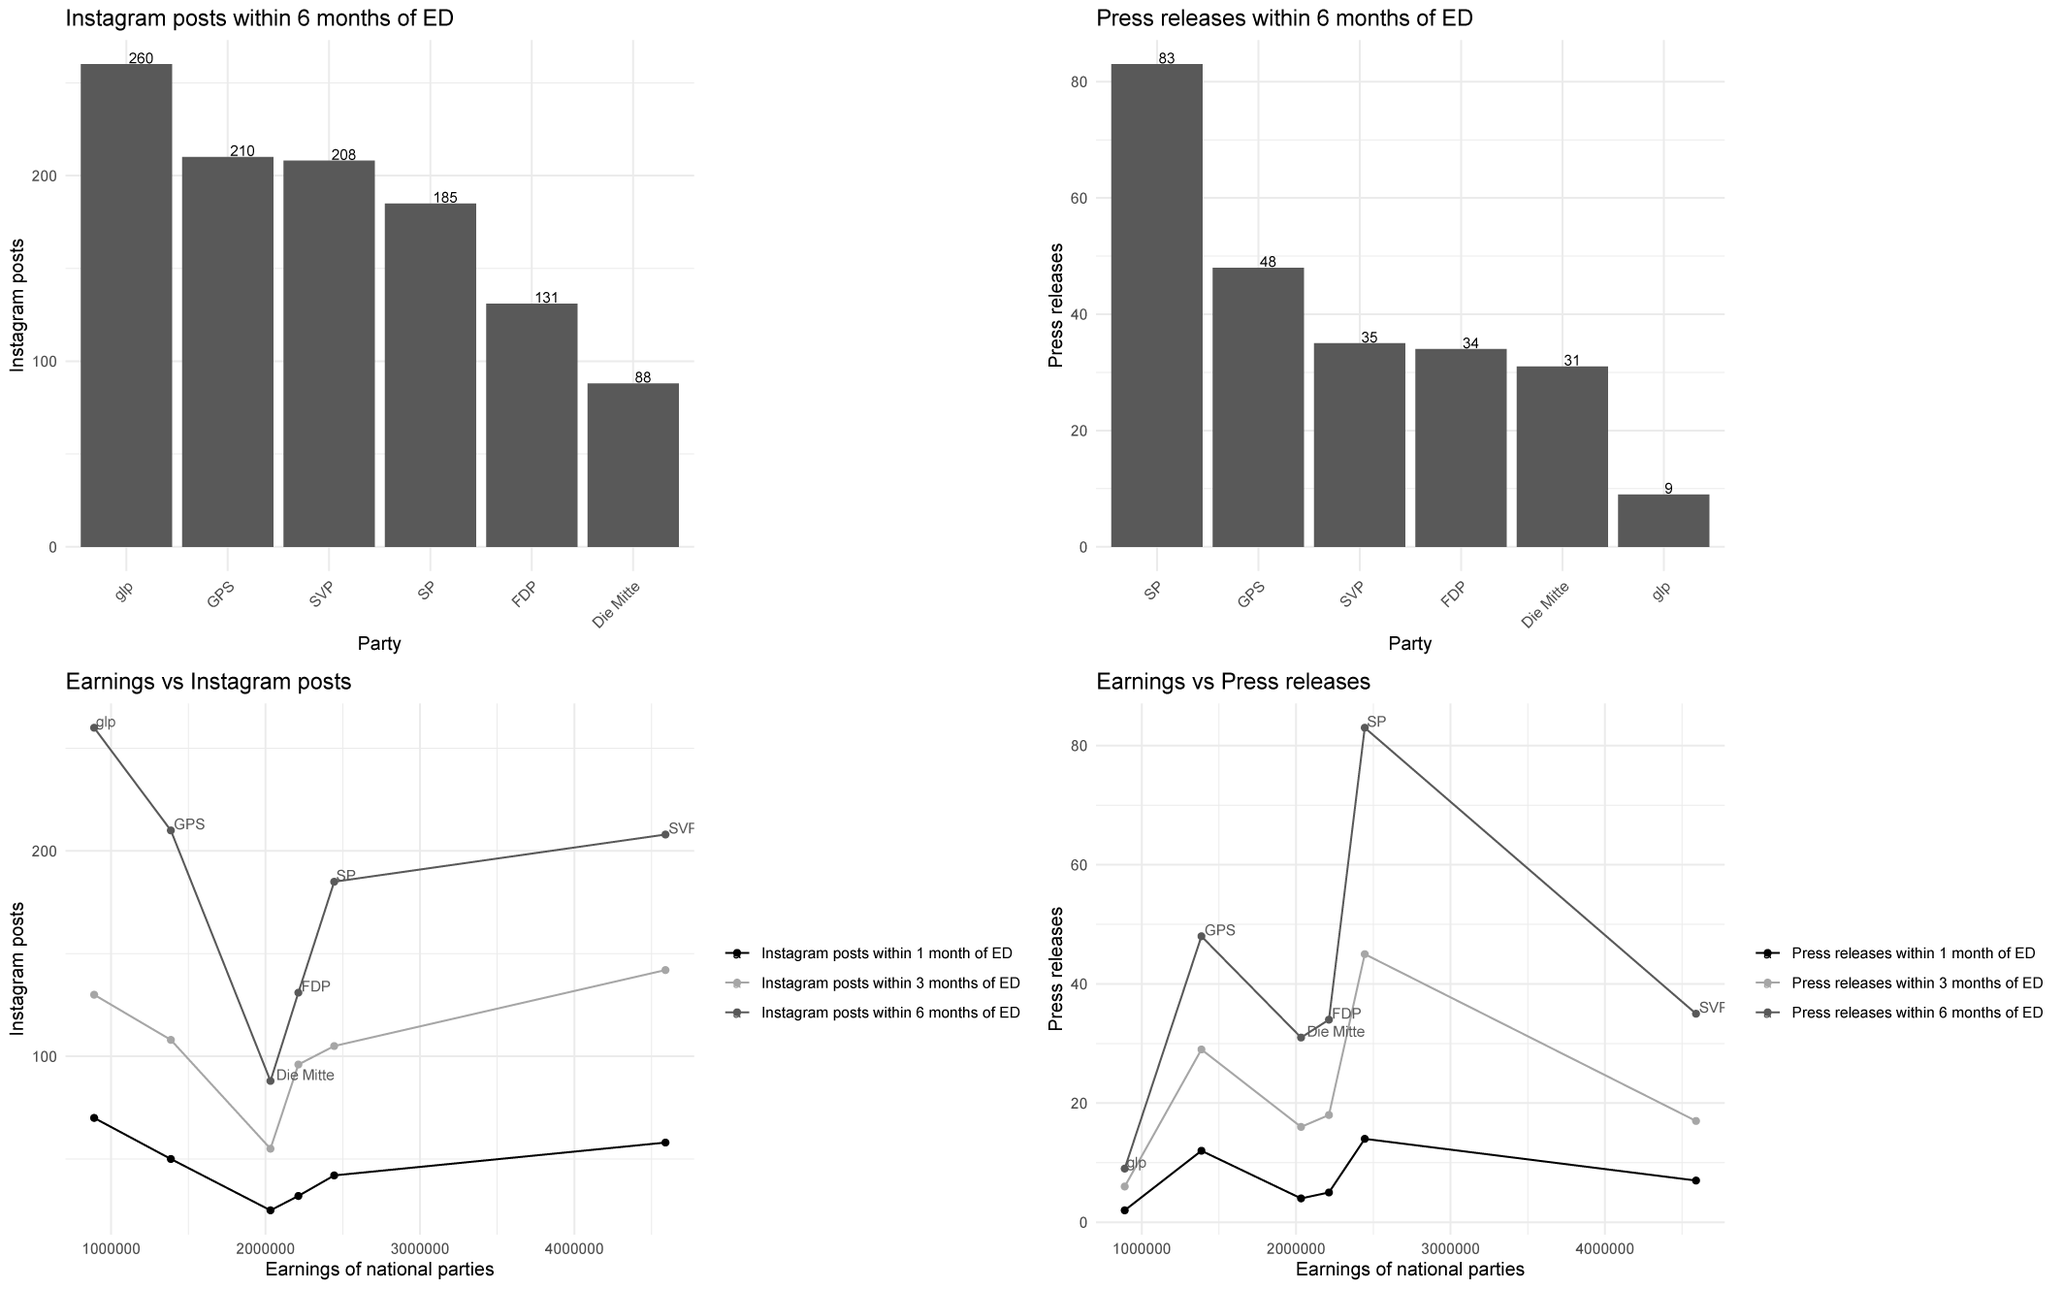
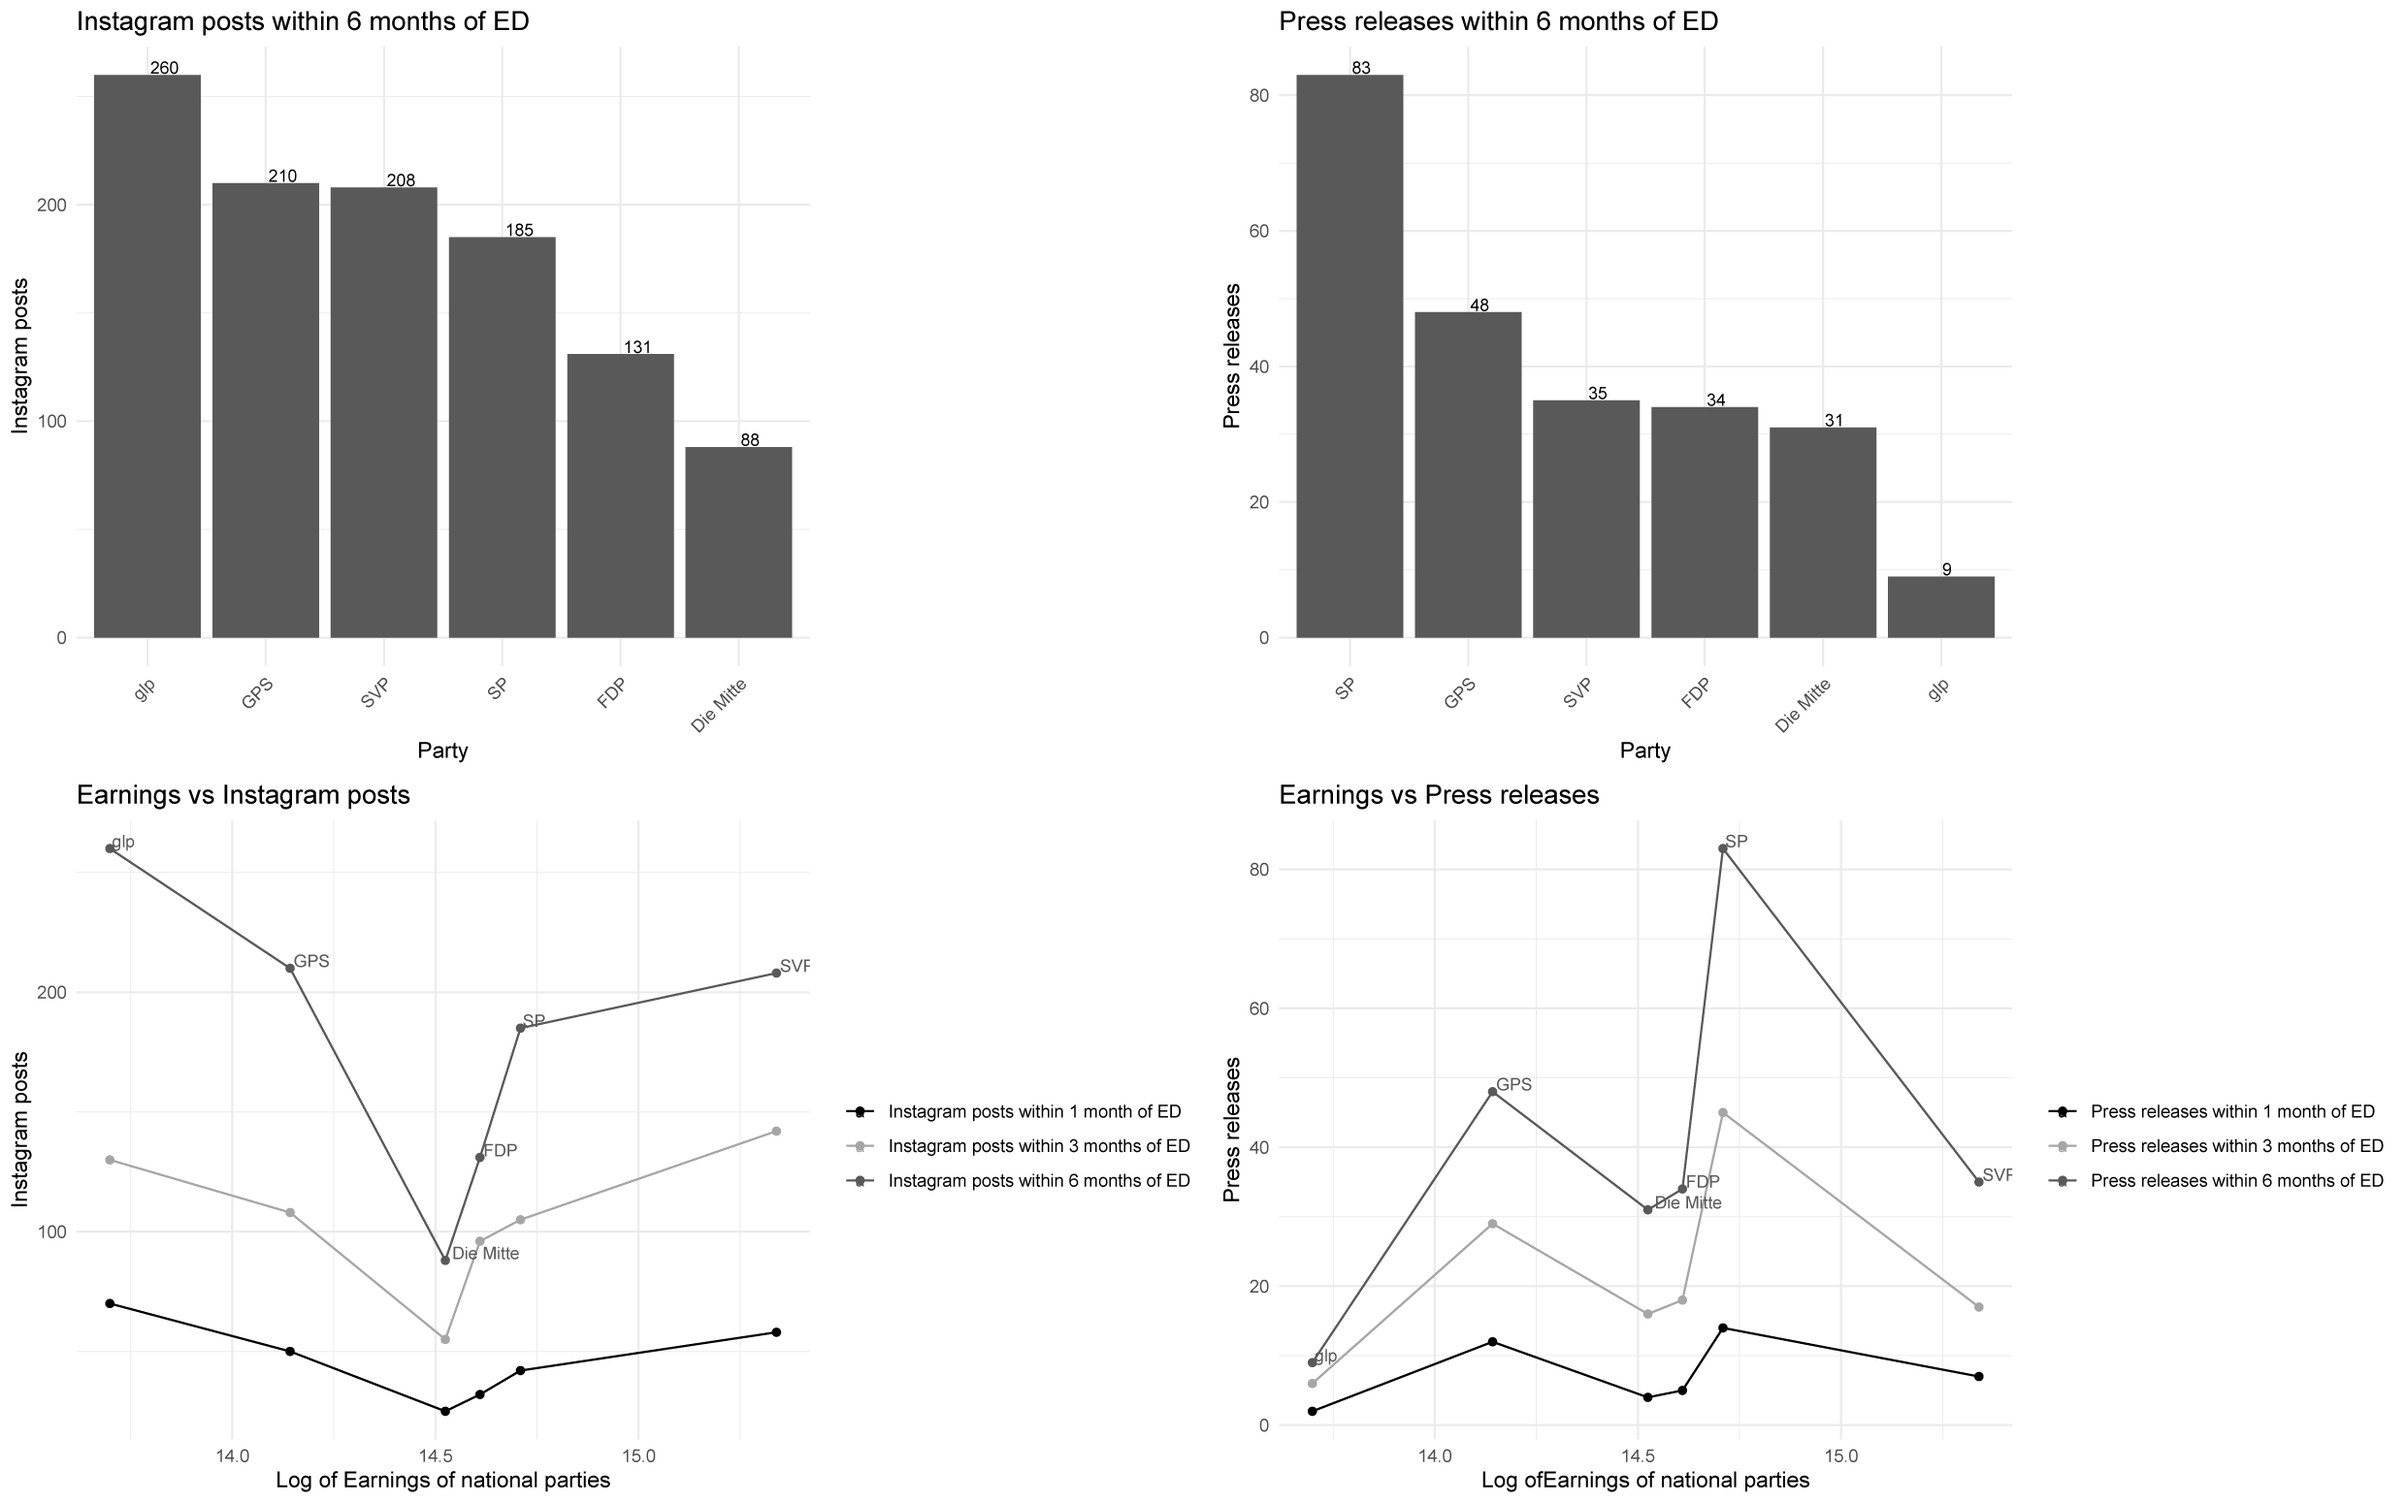
Add logs in plot, models and regression table

diff --git a/output/tables/table_5.html b/output/tables/table_5.html
@@ -2,40 +2,39 @@
 <table style="text-align:center"><tr><td colspan="8" style="border-bottom: 1px solid black"></td></tr><tr><td style="text-align:left"></td><td colspan="7"><em>Dependent variable:</em></td></tr>
 <tr><td></td><td colspan="7" style="border-bottom: 1px solid black"></td></tr>
 <tr><td style="text-align:left"></td><td colspan="7">MISI within election month</td></tr>
-<tr><td style="text-align:left"></td><td>PISI</td><td>+ Earnings</td><td>+ Controls</td><td>+ Interaction</td><td>+ MISI 3m</td><td>alt: MISI 6m</td><td>Full Model</td></tr>
+<tr><td style="text-align:left"></td><td>PISI</td><td>+ log(Earnings)</td><td>+ Controls</td><td>+ Interaction</td><td>+ MISI 3m</td><td>alt: MISI 6m</td><td>Full Model</td></tr>
 <tr><td style="text-align:left"></td><td>(1)</td><td>(2)</td><td>(3)</td><td>(4)</td><td>(5)</td><td>(6)</td><td>(7)</td></tr>
-<tr><td colspan="8" style="border-bottom: 1px solid black"></td></tr><tr><td style="text-align:left">PISI</td><td>0.095<sup>・</sup></td><td>0.095<sup>・</sup></td><td>0.095<sup>・</sup></td><td>0.505<sup>**</sup></td><td>-0.010</td><td>0.126<sup>・</sup></td><td>-0.027</td></tr>
-<tr><td style="text-align:left"></td><td>(0.086)</td><td>(0.087)</td><td>(0.088)</td><td>(0.228)</td><td>(0.070)</td><td>(0.088)</td><td>(0.072)</td></tr>
+<tr><td colspan="8" style="border-bottom: 1px solid black"></td></tr><tr><td style="text-align:left">PISI</td><td>0.095<sup>・</sup></td><td>0.095<sup>・</sup></td><td>0.095<sup>・</sup></td><td>4.986<sup>*</sup></td><td>-0.709<sup>・</sup></td><td>0.782<sup>・</sup></td><td>-0.907<sup>・</sup></td></tr>
+<tr><td style="text-align:left"></td><td>(0.086)</td><td>(0.087)</td><td>(0.088)</td><td>(2.808)</td><td>(0.860)</td><td>(1.082)</td><td>(0.875)</td></tr>
 <tr><td style="text-align:left"></td><td></td><td></td><td></td><td></td><td></td><td></td><td></td></tr>
-<tr><td style="text-align:left">Party Earnings</td><td></td><td>0.000</td><td>-0.000</td><td>0.000<sup>・</sup></td><td>-0.000</td><td>0.000<sup>・</sup></td><td>-0.000</td></tr>
-<tr><td style="text-align:left"></td><td></td><td>(0.000)</td><td>(0.000)</td><td>(0.000)</td><td>(0.000)</td><td>(0.000)</td><td>(0.000)</td></tr>
+<tr><td style="text-align:left">Log of Party Earnings</td><td></td><td>-0.000</td><td>-0.000</td><td>0.015<sup>・</sup></td><td>-0.002<sup>・</sup></td><td>0.002</td><td>-0.003<sup>・</sup></td></tr>
+<tr><td style="text-align:left"></td><td></td><td>(0.008)</td><td>(0.013)</td><td>(0.015)</td><td>(0.005)</td><td>(0.006)</td><td>(0.005)</td></tr>
 <tr><td style="text-align:left"></td><td></td><td></td><td></td><td></td><td></td><td></td><td></td></tr>
 <tr><td style="text-align:left">Number of Seats</td><td></td><td></td><td>0.000</td><td>0.000</td><td>0.000</td><td>0.000</td><td>0.000</td></tr>
 <tr><td style="text-align:left"></td><td></td><td></td><td>(0.001)</td><td>(0.001)</td><td>(0.0002)</td><td>(0.0003)</td><td>(0.0002)</td></tr>
 <tr><td style="text-align:left"></td><td></td><td></td><td></td><td></td><td></td><td></td><td></td></tr>
 <tr><td style="text-align:left">Left-Right Scale</td><td></td><td></td><td>0.000</td><td>0.000</td><td>0.000</td><td>0.000</td><td>0.000</td></tr>
-<tr><td style="text-align:left"></td><td></td><td></td><td>(0.004)</td><td>(0.004)</td><td>(0.001)</td><td>(0.002)</td><td>(0.001)</td></tr>
+<tr><td style="text-align:left"></td><td></td><td></td><td>(0.004)</td><td>(0.003)</td><td>(0.001)</td><td>(0.001)</td><td>(0.001)</td></tr>
 <tr><td style="text-align:left"></td><td></td><td></td><td></td><td></td><td></td><td></td><td></td></tr>
 <tr><td style="text-align:left">GAL-TAN Scale</td><td></td><td></td><td>-0.000</td><td>-0.000</td><td>0.000</td><td>0.000</td><td>0.000</td></tr>
 <tr><td style="text-align:left"></td><td></td><td></td><td>(0.004)</td><td>(0.004)</td><td>(0.001)</td><td>(0.001)</td><td>(0.001)</td></tr>
 <tr><td style="text-align:left"></td><td></td><td></td><td></td><td></td><td></td><td></td><td></td></tr>
-<tr><td style="text-align:left">MISI 3 months before ED</td><td></td><td></td><td></td><td></td><td>1.008<sup>***</sup></td><td></td><td>1.157<sup>***</sup></td></tr>
+<tr><td style="text-align:left">MISI 3 months before ED</td><td></td><td></td><td></td><td></td><td>1.010<sup>***</sup></td><td></td><td>1.169<sup>***</sup></td></tr>
 <tr><td style="text-align:left"></td><td></td><td></td><td></td><td></td><td>(0.029)</td><td></td><td>(0.137)</td></tr>
 <tr><td style="text-align:left"></td><td></td><td></td><td></td><td></td><td></td><td></td><td></td></tr>
-<tr><td style="text-align:left">MISI 6 bonths before ED</td><td></td><td></td><td></td><td></td><td></td><td>0.966<sup>***</sup></td><td>-0.150<sup>・</sup></td></tr>
+<tr><td style="text-align:left">MISI 6 bonths before ED</td><td></td><td></td><td></td><td></td><td></td><td>0.967<sup>***</sup></td><td>-0.161<sup>・</sup></td></tr>
 <tr><td style="text-align:left"></td><td></td><td></td><td></td><td></td><td></td><td>(0.037)</td><td>(0.135)</td></tr>
 <tr><td style="text-align:left"></td><td></td><td></td><td></td><td></td><td></td><td></td><td></td></tr>
-<tr><td style="text-align:left">PISI * Party Earnings</td><td></td><td></td><td></td><td>-0.00000<sup>*</sup></td><td>0.000<sup>・</sup></td><td>-0.000<sup>・</sup></td><td>0.000<sup>・</sup></td></tr>
-<tr><td style="text-align:left"></td><td></td><td></td><td></td><td>(0.00000)</td><td>(0.000)</td><td>(0.000)</td><td>(0.000)</td></tr>
+<tr><td style="text-align:left">PISI * Log of Party Earnings</td><td></td><td></td><td></td><td>-0.307<sup>*</sup></td><td>0.046<sup>・</sup></td><td>-0.046<sup>・</sup></td><td>0.058<sup>・</sup></td></tr>
+<tr><td style="text-align:left"></td><td></td><td></td><td></td><td>(0.176)</td><td>(0.054)</td><td>(0.068)</td><td>(0.055)</td></tr>
 <tr><td style="text-align:left"></td><td></td><td></td><td></td><td></td><td></td><td></td><td></td></tr>
-<tr><td style="text-align:left">Constant</td><td>0.043<sup>***</sup></td><td>0.043<sup>***</sup></td><td>0.043<sup>**</sup></td><td>0.024<sup>・</sup></td><td>0.0001</td><td>-0.004<sup>・</sup></td><td>0.001</td></tr>
-<tr><td style="text-align:left"></td><td>(0.006)</td><td>(0.010)</td><td>(0.021)</td><td>(0.023)</td><td>(0.007)</td><td>(0.009)</td><td>(0.007)</td></tr>
+<tr><td style="text-align:left">Constant</td><td>0.043<sup>***</sup></td><td>0.043</td><td>0.043</td><td>-0.190<sup>・</sup></td><td>0.033<sup>・</sup></td><td>-0.036<sup>・</sup></td><td>0.043<sup>・</sup></td></tr>
+<tr><td style="text-align:left"></td><td>(0.006)</td><td>(0.120)</td><td>(0.189)</td><td>(0.230)</td><td>(0.069)</td><td>(0.088)</td><td>(0.070)</td></tr>
 <tr><td style="text-align:left"></td><td></td><td></td><td></td><td></td><td></td><td></td><td></td></tr>
 <tr><td colspan="8" style="border-bottom: 1px solid black"></td></tr><tr><td style="text-align:left">Observations</td><td>126</td><td>126</td><td>126</td><td>126</td><td>126</td><td>126</td><td>126</td></tr>
-<tr><td style="text-align:left">R<sup>2</sup></td><td>0.010</td><td>0.010</td><td>0.010</td><td>0.040</td><td>0.913</td><td>0.861</td><td>0.914</td></tr>
-<tr><td style="text-align:left">Adjusted R<sup>2</sup></td><td>0.002</td><td>-0.006</td><td>-0.032</td><td>-0.008</td><td>0.908</td><td>0.853</td><td>0.908</td></tr>
+<tr><td style="text-align:left">R<sup>2</sup></td><td>0.010</td><td>0.010</td><td>0.010</td><td>0.034</td><td>0.913</td><td>0.861</td><td>0.914</td></tr>
+<tr><td style="text-align:left">Adjusted R<sup>2</sup></td><td>0.002</td><td>-0.006</td><td>-0.032</td><td>-0.014</td><td>0.908</td><td>0.853</td><td>0.909</td></tr>
 <tr><td style="text-align:left">Residual Std. Error</td><td>0.046 (df = 124)</td><td>0.046 (df = 123)</td><td>0.047 (df = 120)</td><td>0.046 (df = 119)</td><td>0.014 (df = 118)</td><td>0.018 (df = 118)</td><td>0.014 (df = 117)</td></tr>
-<tr><td style="text-align:left">F Statistic</td><td>1.204<sup>・</sup> (df = 1; 124)</td><td>0.597<sup>・</sup> (df = 2; 123)</td><td>0.233 (df = 5; 120)</td><td>0.829<sup>・</sup> (df = 6; 119)</td><td>177.055<sup>***</sup> (df = 7; 118)</td><td>104.836<sup>***</sup> (df = 7; 118)</td><td>155.389<sup>***</sup> (df = 8; 117)</td></tr>
+<tr><td style="text-align:left">F Statistic</td><td>1.204<sup>・</sup> (df = 1; 124)</td><td>0.597<sup>・</sup> (df = 2; 123)</td><td>0.233 (df = 5; 120)</td><td>0.704<sup>・</sup> (df = 6; 119)</td><td>177.846<sup>***</sup> (df = 7; 118)</td><td>104.421<sup>***</sup> (df = 7; 118)</td><td>156.337<sup>***</sup> (df = 8; 117)</td></tr>
 <tr><td colspan="8" style="border-bottom: 1px solid black"></td></tr><tr><td style="text-align:left"><em>Note:</em></td><td colspan="7" style="text-align:right"><sup>*</sup>p<0.7; <sup>**</sup>p<0.1; <sup>***</sup>p<0.05</td></tr>
-<tr><td style="text-align:left"></td><td colspan="7" style="text-align:right">・p<0.7; *p<0.1; **p<0.05; ***p<0.01</td></tr>
 </table>

diff --git a/output/tables/table_5.tex b/output/tables/table_5.tex
@@ -1,54 +1,55 @@
 
 % Table created by stargazer v.5.2.3 by Marek Hlavac, Social Policy Institute. E-mail: marek.hlavac at gmail.com
-% Date and time: Sun, Apr 28, 2024 - 21:36:12
-\begin{table}[!htbp] \centering
-  \caption{}
-  \label{}
-\begin{tabular}{@{\extracolsep{10pt}}lccccccc}
-\\[-1.8ex]\hline
-\hline \\[-1.8ex]
- & \multicolumn{7}{c}{\textit{Dependent variable:}} \\
-\cline{2-8}
-\\[-1.8ex] & \multicolumn{7}{c}{MISI within election month} \\
- & PISI & + Earnings & + Controls & + Interaction & + MISI 3m & alt: MISI 6m & Full Model \\
-\\[-1.8ex] & (1) & (2) & (3) & (4) & (5) & (6) & (7)\\
-\hline \\[-1.8ex]
- PISI & 0.095$^{・}$ & 0.095$^{・}$ & 0.095$^{・}$ & 0.505$^{**}$ & $-$0.010 & 0.126$^{・}$ & $-$0.027 \\
-  & (0.086) & (0.087) & (0.088) & (0.228) & (0.070) & (0.088) & (0.072) \\
-  & & & & & & & \\
- Party Earnings &  & 0.000 & $-$0.000 & 0.000$^{・}$ & $-$0.000 & 0.000$^{・}$ & $-$0.000 \\
-  &  & (0.000) & (0.000) & (0.000) & (0.000) & (0.000) & (0.000) \\
-  & & & & & & & \\
- Number of Seats &  &  & 0.000 & 0.000 & 0.000 & 0.000 & 0.000 \\
-  &  &  & (0.001) & (0.001) & (0.0002) & (0.0003) & (0.0002) \\
-  & & & & & & & \\
- Left-Right Scale &  &  & 0.000 & 0.000 & 0.000 & 0.000 & 0.000 \\
-  &  &  & (0.004) & (0.004) & (0.001) & (0.002) & (0.001) \\
-  & & & & & & & \\
- GAL-TAN Scale &  &  & $-$0.000 & $-$0.000 & 0.000 & 0.000 & 0.000 \\
-  &  &  & (0.004) & (0.004) & (0.001) & (0.001) & (0.001) \\
-  & & & & & & & \\
- MISI 3 months before ED &  &  &  &  & 1.008$^{***}$ &  & 1.157$^{***}$ \\
-  &  &  &  &  & (0.029) &  & (0.137) \\
-  & & & & & & & \\
- MISI 6 bonths before ED &  &  &  &  &  & 0.966$^{***}$ & $-$0.150$^{・}$ \\
-  &  &  &  &  &  & (0.037) & (0.135) \\
-  & & & & & & & \\
- PISI * Party Earnings &  &  &  & $-$0.00000$^{*}$ & 0.000$^{・}$ & $-$0.000$^{・}$ & 0.000$^{・}$ \\
-  &  &  &  & (0.00000) & (0.000) & (0.000) & (0.000) \\
-  & & & & & & & \\
- Constant & 0.043$^{***}$ & 0.043$^{***}$ & 0.043$^{**}$ & 0.024$^{・}$ & 0.0001 & $-$0.004$^{・}$ & 0.001 \\
-  & (0.006) & (0.010) & (0.021) & (0.023) & (0.007) & (0.009) & (0.007) \\
-  & & & & & & & \\
-\hline \\[-1.8ex]
-Observations & 126 & 126 & 126 & 126 & 126 & 126 & 126 \\
-R$^{2}$ & 0.010 & 0.010 & 0.010 & 0.040 & 0.913 & 0.861 & 0.914 \\
-Adjusted R$^{2}$ & 0.002 & $-$0.006 & $-$0.032 & $-$0.008 & 0.908 & 0.853 & 0.908 \\
-Residual Std. Error & 0.046 (df = 124) & 0.046 (df = 123) & 0.047 (df = 120) & 0.046 (df = 119) & 0.014 (df = 118) & 0.018 (df = 118) & 0.014 (df = 117) \\
-F Statistic & 1.204$^{・}$ (df = 1; 124) & 0.597$^{・}$ (df = 2; 123) & 0.233 (df = 5; 120) & 0.829$^{・}$ (df = 6; 119) & 177.055$^{***}$ (df = 7; 118) & 104.836$^{***}$ (df = 7; 118) & 155.389$^{***}$ (df = 8; 117) \\
-\hline
-\hline \\[-1.8ex]
-\textit{Note:}  & \multicolumn{7}{r}{$^{*}$p$<$0.7; $^{**}$p$<$0.1; $^{***}$p$<$0.05} \\
- & \multicolumn{7}{r}{・p<0.7; *p<0.1; **p<0.05; ***p<0.01} \\
-\end{tabular}
-\end{table}
+% Date and time: Tue, Apr 30, 2024 - 13:19:23
+\begin{table}[!htbp] \centering 
+  \caption{} 
+  \label{} 
+\large 
+\begin{tabular}{@{\extracolsep{50pt}}lccccccc} 
+\\[-1.8ex]\hline 
+\hline \\[-1.8ex] 
+ & \multicolumn{7}{c}{\textit{Dependent variable:}} \\ 
+\cline{2-8} 
+\\[-1.8ex] & \multicolumn{7}{c}{MISI within election month} \\ 
+ & PISI & + log(Earnings) & + Controls & + Interaction & + MISI 3m & alt: MISI 6m & Full Model \\ 
+\\[-1.8ex] & (1) & (2) & (3) & (4) & (5) & (6) & (7)\\ 
+\hline \\[-1.8ex] 
+ PISI & 0.095$^{+}$ & 0.095$^{+}$ & 0.095$^{+}$ & 4.986$^{*}$ & $-$0.709$^{+}$ & 0.782$^{+}$ & $-$0.907$^{+}$ \\ 
+  & (0.086) & (0.087) & (0.088) & (2.808) & (0.860) & (1.082) & (0.875) \\ 
+  & & & & & & & \\ 
+ Log of Party Earnings &  & $-$0.000 & $-$0.000 & 0.015$^{+}$ & $-$0.002$^{+}$ & 0.002 & $-$0.003$^{+}$ \\ 
+  &  & (0.008) & (0.013) & (0.015) & (0.005) & (0.006) & (0.005) \\ 
+  & & & & & & & \\ 
+ Number of Seats &  &  & 0.000 & 0.000 & 0.000 & 0.000 & 0.000 \\ 
+  &  &  & (0.001) & (0.001) & (0.0002) & (0.0003) & (0.0002) \\ 
+  & & & & & & & \\ 
+ Left-Right Scale &  &  & 0.000 & 0.000 & 0.000 & 0.000 & 0.000 \\ 
+  &  &  & (0.004) & (0.003) & (0.001) & (0.001) & (0.001) \\ 
+  & & & & & & & \\ 
+ GAL-TAN Scale &  &  & $-$0.000 & $-$0.000 & 0.000 & 0.000 & 0.000 \\ 
+  &  &  & (0.004) & (0.004) & (0.001) & (0.001) & (0.001) \\ 
+  & & & & & & & \\ 
+ MISI 3 months before ED &  &  &  &  & 1.010$^{***}$ &  & 1.169$^{***}$ \\ 
+  &  &  &  &  & (0.029) &  & (0.137) \\ 
+  & & & & & & & \\ 
+ MISI 6 bonths before ED &  &  &  &  &  & 0.967$^{***}$ & $-$0.161$^{+}$ \\ 
+  &  &  &  &  &  & (0.037) & (0.135) \\ 
+  & & & & & & & \\ 
+ PISI * Log of Party Earnings &  &  &  & $-$0.307$^{*}$ & 0.046$^{+}$ & $-$0.046$^{+}$ & 0.058$^{+}$ \\ 
+  &  &  &  & (0.176) & (0.054) & (0.068) & (0.055) \\ 
+  & & & & & & & \\ 
+ Constant & 0.043$^{***}$ & 0.043 & 0.043 & $-$0.190$^{+}$ & 0.033$^{+}$ & $-$0.036$^{+}$ & 0.043$^{+}$ \\ 
+  & (0.006) & (0.120) & (0.189) & (0.230) & (0.069) & (0.088) & (0.070) \\ 
+  & & & & & & & \\ 
+\hline \\[-1.8ex] 
+Observations & 126 & 126 & 126 & 126 & 126 & 126 & 126 \\ 
+R$^{2}$ & 0.010 & 0.010 & 0.010 & 0.034 & 0.913 & 0.861 & 0.914 \\ 
+Adjusted R$^{2}$ & 0.002 & $-$0.006 & $-$0.032 & $-$0.014 & 0.908 & 0.853 & 0.909 \\ 
+Residual Std. Error & 0.046 (df = 124) & 0.046 (df = 123) & 0.047 (df = 120) & 0.046 (df = 119) & 0.014 (df = 118) & 0.018 (df = 118) & 0.014 (df = 117) \\ 
+F Statistic & 1.204$^{+}$ (df = 1; 124) & 0.597$^{+}$ (df = 2; 123) & 0.233 (df = 5; 120) & 0.704$^{+}$ (df = 6; 119) & 177.846$^{***}$ (df = 7; 118) & 104.421$^{***}$ (df = 7; 118) & 156.337$^{***}$ (df = 8; 117) \\ 
+\hline 
+\hline \\[-1.8ex] 
+\textit{Note:}  & \multicolumn{7}{r}{$^{*}$p$<$0.7; $^{**}$p$<$0.1; $^{***}$p$<$0.05} \\ 
+ & \multicolumn{7}{r}{+p<0.7; *p<0.1; **p<0.05; ***p<0.01} \\ 
+\end{tabular} 
+\end{table} 
